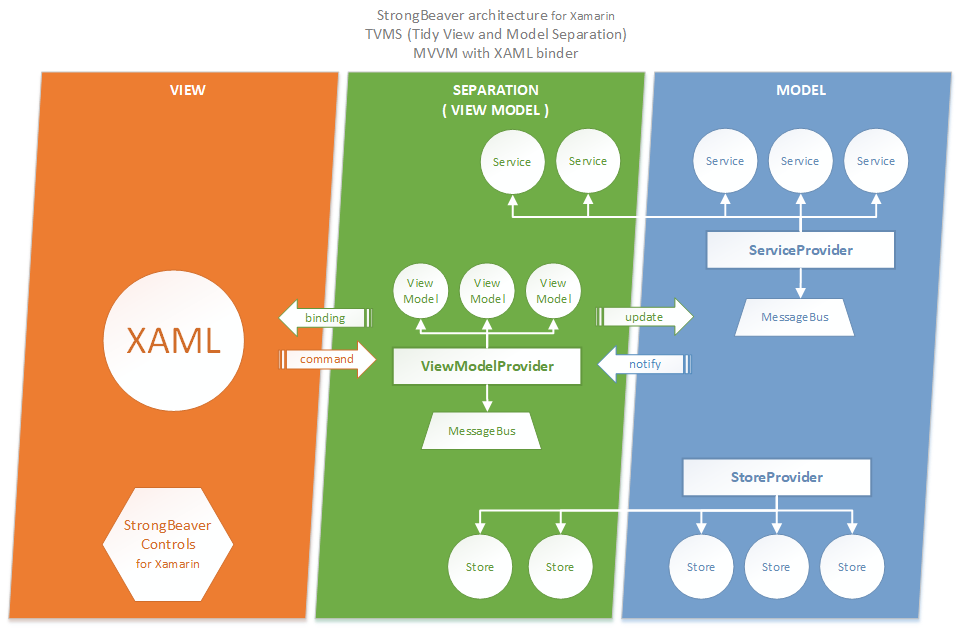
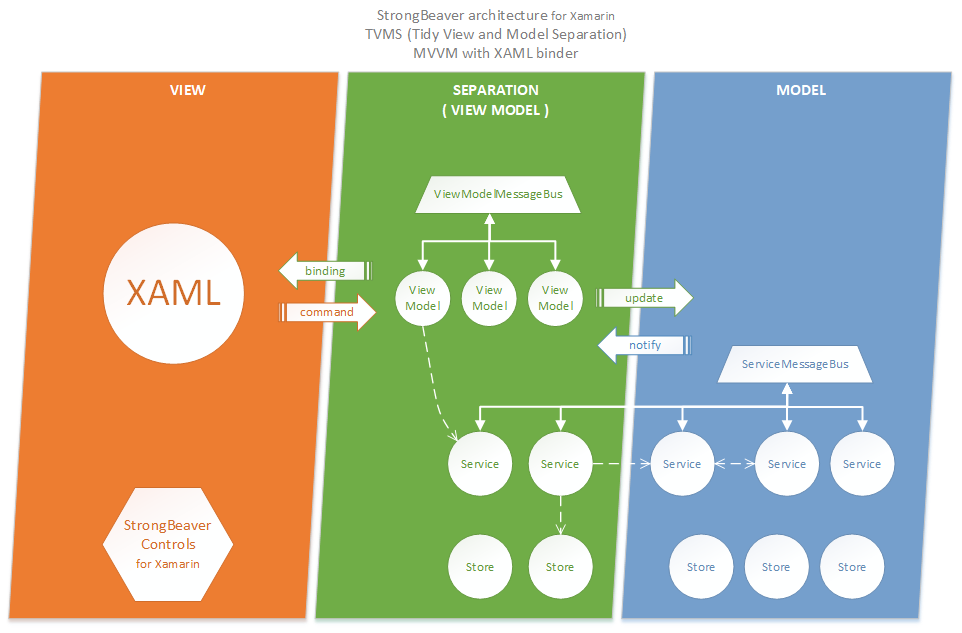
documentation update about providers and MvvmLight dependency

Changed region(s): [[0.0936, 0.1801, 0.9667, 0.8404]]

diff --git a/README.md b/README.md
@@ -6,6 +6,8 @@ The StrongBeaver is .NET application framework mainly designed for Xamarin, but 
 
 **The Framework is migrating to .NET standard and going to be split to small and more specific libraries!**
 
+> Some of the parts of this documentation are out of date.
+
 **The Framework is in early stage (ALFA version). A lot of stuff can be changed and unit testing is coming. Can be used for testing and as a playground, but for a real deployment please wait for a stable release.**
 
 > Simplicity is the ultimate sofistication.
@@ -15,8 +17,9 @@ The StrongBeaver is .NET application framework mainly designed for Xamarin, but 
 ## Work in progress
 
 - [x] Make the framework more .net standard friendly
-- [ ] Split framework to multiple libraries
-- [x] Remove service locator as a anti-pattern from framework core 
+- [x] Split framework to multiple libraries
+- [x] Remove service locator as a anti-pattern from framework core
+- [x] Decouple MvvmLight dependency
 
 ## Introduction
 
@@ -98,7 +101,7 @@ With the architecture pattern and framework, we are coming with recommendations,
 Dependency | Description
 --- | ---
 [CommonServiceLocator](https://github.com/unitycontainer/commonservicelocator) | The library provides an abstraction over IoC containers and service locators. Using the library allows an application to indirectly access the capabilities without relying on hard references.
-[MVVM Light Toolkit](http://www.mvvmlight.net/) | The framework takes a lot of inspiration from this great and powerful toolkit. *This dependency will be integrated.*
+[MVVM Light Toolkit](http://www.mvvmlight.net/) | The framework takes a lot of inspiration from this great and powerful toolkit! ***This dependency is already integrated.***
 [Json.NET](https://www.newtonsoft.com/json) | The JSON is the most popular data transfer format used on the network and for communication between systems.
 [Popup Page Plugin for Xamarin](https://github.com/rotorgames/Rg.Plugins.Popup) | Xamarin plugin which is used for showing user-defined dialogues. *This dependency would be removed soon.*
 

diff --git a/doc/architecture.md b/doc/architecture.md
@@ -1,0 +1,16 @@
+## Logging
+
+* For frequent use of logging service is the best to simply inject the service by constructor injection and use it internaly.
+* For couple of debuging messages, the methods on static Provider class can be used. They are marked with Conditional attribute for save use only on debug builds.
+* For totaly independent log record, the message hub can be used when logging service is registered with it.
+
+## Providers
+
+Providers are designated to be used as Facades for services, view models, eventually stores. 
+They are forced to use only one type of items to force developers to strict to rule one type per provider.
+A provider should serve important items by strong typed properties if will be used as a facade.
+If a facade is not needed only default providers for services and view models can be used for message bus registration.
+
+ ## View model locator
+
+ TO be able to use view model locator is necessary to use view model provider as well.
